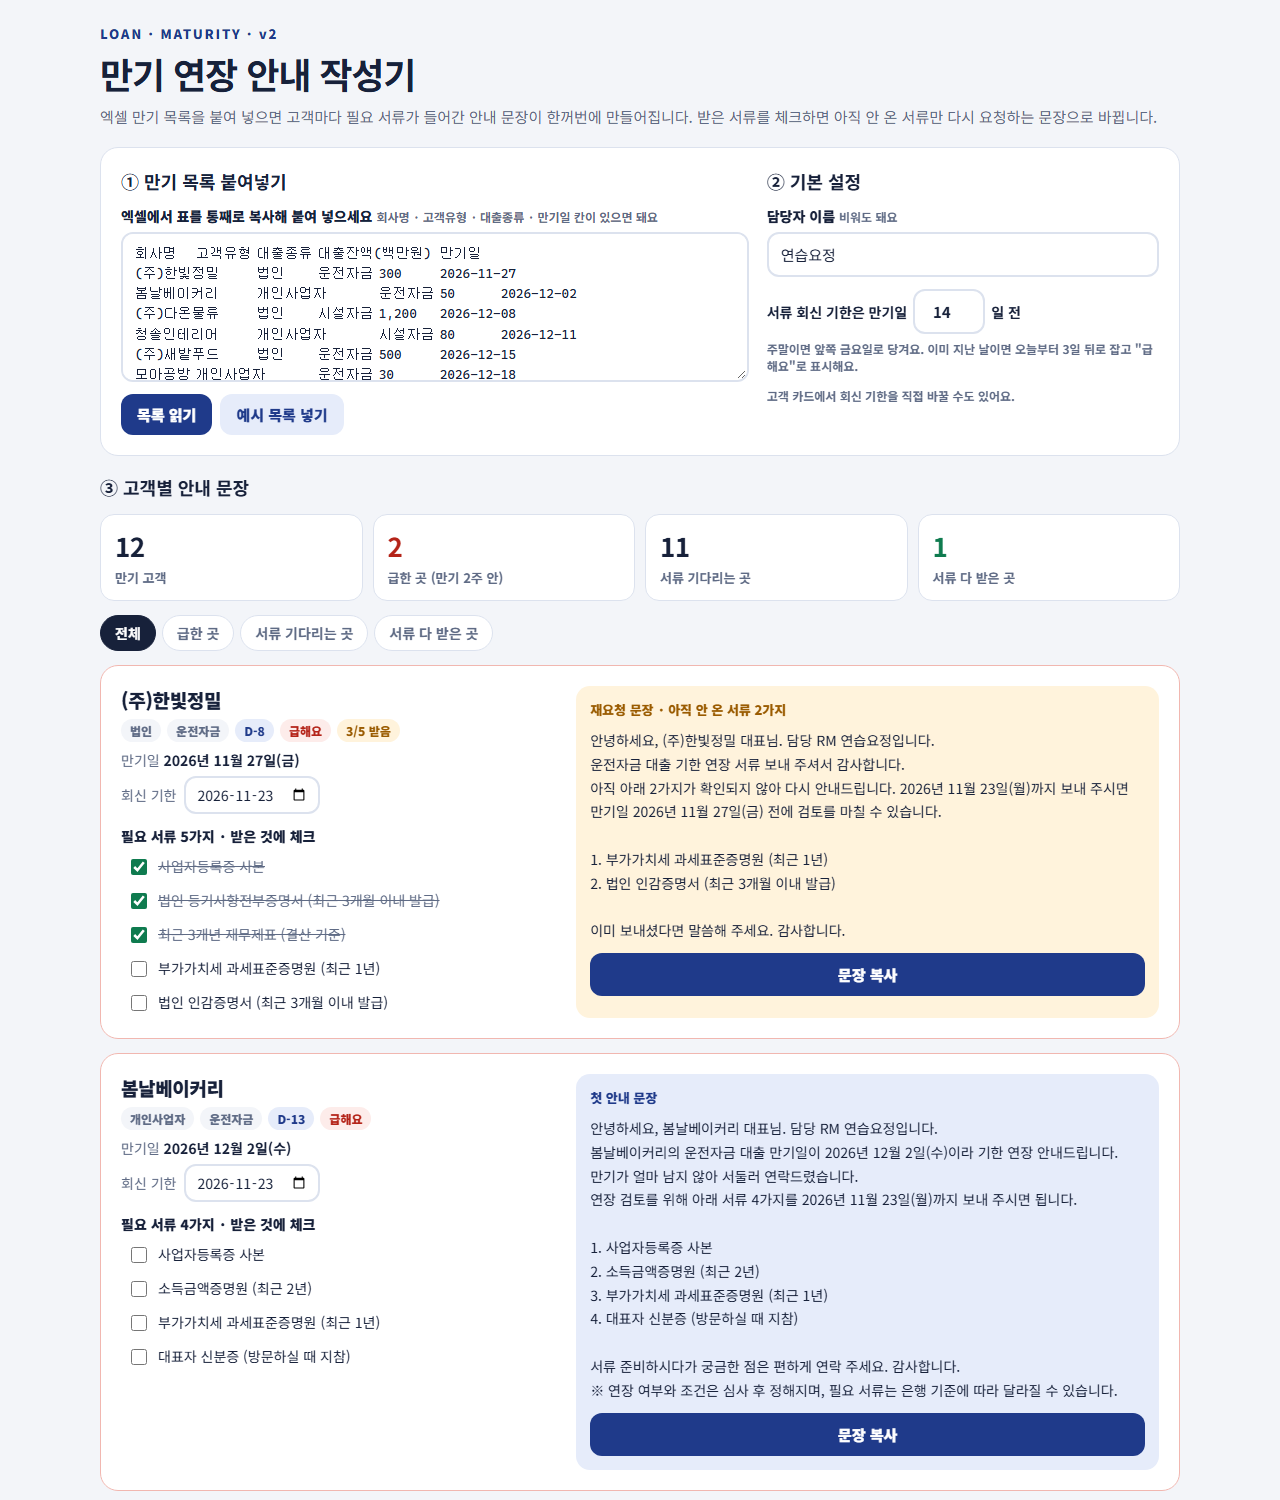
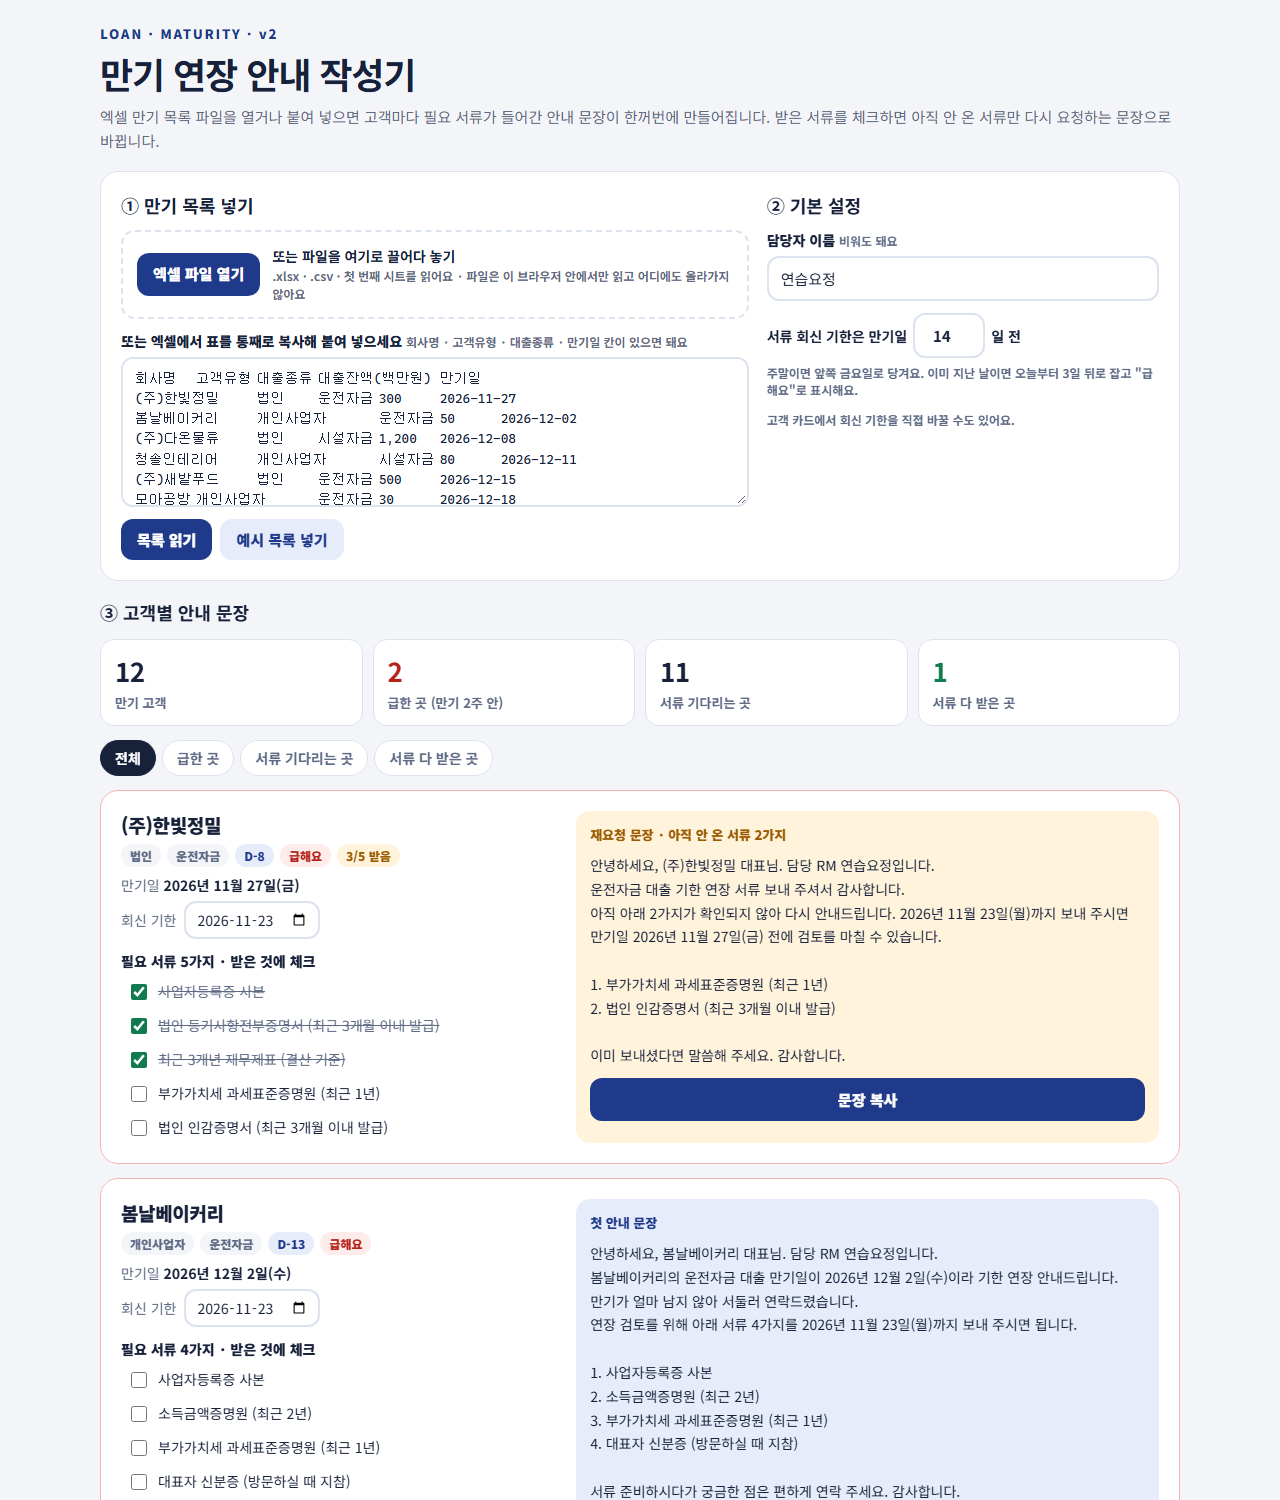
만기 연장 안내 작성기 v2: 엑셀(.xlsx) · CSV 파일 열기 추가
- 파일 열기 버튼과 끌어다 놓기, 첫 번째 시트를 읽어 붙여넣기 칸에 채움 (붙여넣기는 그대로)
- 외부 라이브러리 없이 브라우저 안에서만 읽음, 날짜 서식 숫자 → 날짜, 한글 CSV(EUC-KR) 처리
- .xls · 문서보안(DRM) 파일은 붙여넣기로 안내

diff --git a/[강사예시]/실습3_나만의도구/만기-연장-안내작성기-v2/index.html b/[강사예시]/실습3_나만의도구/만기-연장-안내작성기-v2/index.html
@@ -50,6 +50,12 @@
   .btn.small { padding: 7px 12px; font-size: 13px; }
   .rule { display: flex; align-items: center; gap: 6px; flex-wrap: wrap; font-size: 14px; font-weight: 700; }
   .rule input { width: 72px; text-align: center; }
+  .drop { display: flex; align-items: center; gap: 12px; flex-wrap: wrap; padding: 14px; margin-bottom: 12px; border: 2px dashed var(--line); border-radius: 14px; font-size: 14px; font-weight: 700; line-height: 1.5; }
+  .drop span { min-width: 0; flex: 1 1 220px; }
+  .drop .hint { display: block; }
+  .drop.over { border-color: var(--accent); background: var(--accent-soft); }
+  .file-msg { margin: -4px 0 12px; padding: 10px 12px; border-radius: 10px; font-size: 14px; font-weight: 700; line-height: 1.5; background: var(--ok-soft); color: var(--ok); }
+  .file-msg.bad { background: var(--warn-soft); color: var(--warn); }
   .skipped { margin: 10px 0 0; padding: 12px 14px; background: var(--warn-soft); border-radius: 12px; color: var(--warn); font-size: 14px; line-height: 1.6; }
   .skipped ul { margin: 4px 0 0; padding-left: 20px; }
   .summary { display: grid; grid-template-columns: repeat(4, minmax(0, 1fr)); gap: 10px; }
@@ -103,14 +109,20 @@
   <header>
     <p class="eyebrow">LOAN · MATURITY · v2</p>
     <h1>만기 연장 안내 작성기</h1>
-    <p class="sub">엑셀 만기 목록을 붙여 넣으면 고객마다 필요 서류가 들어간 안내 문장이 한꺼번에 만들어집니다. 받은 서류를 체크하면 아직 안 온 서류만 다시 요청하는 문장으로 바뀝니다.</p>
+    <p class="sub">엑셀 만기 목록 파일을 열거나 붙여 넣으면 고객마다 필요 서류가 들어간 안내 문장이 한꺼번에 만들어집니다. 받은 서류를 체크하면 아직 안 온 서류만 다시 요청하는 문장으로 바뀝니다.</p>
   </header>
 
   <section class="card setup" aria-labelledby="in-title">
     <div>
-      <h2 id="in-title">① 만기 목록 붙여넣기</h2>
+      <h2 id="in-title">① 만기 목록 넣기</h2>
+      <div class="drop" id="drop">
+        <input type="file" id="file" accept=".xlsx,.csv" hidden>
+        <button type="button" class="btn" id="pick">엑셀 파일 열기</button>
+        <span>또는 파일을 여기로 끌어다 놓기 <span class="hint">.xlsx · .csv · 첫 번째 시트를 읽어요 · 파일은 이 브라우저 안에서만 읽고 어디에도 올라가지 않아요</span></span>
+      </div>
+      <p id="file-msg" class="file-msg" role="status" hidden></p>
       <div class="field">
-        <label for="paste">엑셀에서 표를 통째로 복사해 붙여 넣으세요 <span class="hint">회사명 · 고객유형 · 대출종류 · 만기일 칸이 있으면 돼요</span></label>
+        <label for="paste">또는 엑셀에서 표를 통째로 복사해 붙여 넣으세요 <span class="hint">회사명 · 고객유형 · 대출종류 · 만기일 칸이 있으면 돼요</span></label>
         <textarea id="paste" spellcheck="false" placeholder="회사명	고객유형	대출종류	만기일&#10;(주)한빛정밀	법인	운전자금	2026-11-27"></textarea>
       </div>
       <div class="btns">
@@ -200,8 +212,8 @@
   // "2026-12-08" "2026.12.8" "2026/12/08" "2026. 12. 8." 엑셀 날짜 숫자(46364)까지
   function parseDate(text) {
     const s = String(text).trim();
-    if (/^\d{5}$/.test(s)) {
-      const n = Number(s);
+    if (/^\d{5}(\.\d+)?$/.test(s)) {
+      const n = Math.floor(Number(s));
       if (n > 40000 && n < 60000) { const base = new Date(1899, 11, 30); return addDays(base, n); }
     }
     const m = s.match(/^(\d{4})\s*[-./년]\s*(\d{1,2})\s*[-./월]\s*(\d{1,2})\s*[.일]?$/);
@@ -470,7 +482,167 @@
     return [head, ...rows].join("\n");
   }
 
-  $("read").addEventListener("click", readList);
+  // ---------- 엑셀 · CSV 파일 읽기 (외부 라이브러리 없이, 이 브라우저 안에서만) ----------
+  // .xlsx는 zip 압축 파일이다. zip 목차를 읽고, 브라우저에 들어 있는 압축 풀기(DecompressionStream)로 시트 XML을 꺼낸다.
+  async function unzip(buffer) {
+    const view = new DataView(buffer);
+    const bytes = new Uint8Array(buffer);
+    if (view.byteLength < 22 || view.getUint32(0, true) !== 0x04034b50) throw new Error("NOT_ZIP");
+    let end = -1;
+    for (let i = view.byteLength - 22; i >= Math.max(0, view.byteLength - 66000); i -= 1) {
+      if (view.getUint32(i, true) === 0x06054b50) { end = i; break; }
+    }
+    if (end < 0) throw new Error("NOT_ZIP");
+    const count = view.getUint16(end + 10, true);
+    let p = view.getUint32(end + 16, true);
+    const names = new TextDecoder();
+    const files = {};
+    for (let n = 0; n < count; n += 1) {
+      if (view.getUint32(p, true) !== 0x02014b50) throw new Error("NOT_ZIP");
+      const method = view.getUint16(p + 10, true);
+      const size = view.getUint32(p + 20, true);
+      const nameLen = view.getUint16(p + 28, true);
+      const extraLen = view.getUint16(p + 30, true);
+      const commentLen = view.getUint16(p + 32, true);
+      const local = view.getUint32(p + 42, true);
+      const name = names.decode(bytes.subarray(p + 46, p + 46 + nameLen));
+      files[name] = { method, size, local };
+      p += 46 + nameLen + extraLen + commentLen;
+    }
+    return async (name) => {
+      const f = files[name];
+      if (!f) return null;
+      const start = f.local + 30 + view.getUint16(f.local + 26, true) + view.getUint16(f.local + 28, true);
+      const data = bytes.subarray(start, start + f.size);
+      if (f.method === 0) return new TextDecoder().decode(data);
+      if (f.method !== 8) throw new Error("UNSUPPORTED");
+      if (typeof DecompressionStream === "undefined") throw new Error("NO_DECOMPRESS");
+      const stream = new Blob([data]).stream().pipeThrough(new DecompressionStream("deflate-raw"));
+      return new Response(stream).text();
+    };
+  }
+
+  const xml = (text) => new DOMParser().parseFromString(text, "application/xml");
+  const colIndex = (ref) => [...ref.replace(/\d+/g, "")].reduce((n, ch) => n * 26 + ch.charCodeAt(0) - 64, 0) - 1;
+
+  async function readXlsx(buffer) {
+    const get = await unzip(buffer);
+    // 첫 번째 시트 파일 찾기 (workbook.xml의 첫 sheet → rels의 Target)
+    let sheetPath = "xl/worksheets/sheet1.xml";
+    const wb = await get("xl/workbook.xml");
+    const rels = await get("xl/_rels/workbook.xml.rels");
+    if (wb && rels) {
+      const first = xml(wb).getElementsByTagName("sheet")[0];
+      const rid = first && (first.getAttribute("r:id") || first.getAttributeNS("http://schemas.openxmlformats.org/officeDocument/2006/relationships", "id"));
+      const rel = [...xml(rels).getElementsByTagName("Relationship")].find((r) => r.getAttribute("Id") === rid);
+      if (rel) {
+        const target = rel.getAttribute("Target");
+        sheetPath = target.startsWith("/") ? target.slice(1) : `xl/${target.replace(/^\.\//, "")}`;
+      }
+    }
+    const sheet = await get(sheetPath);
+    if (!sheet) throw new Error("NO_SHEET");
+    const sharedText = await get("xl/sharedStrings.xml");
+    const shared = sharedText
+      ? [...xml(sharedText).getElementsByTagName("si")].map((si) => [...si.getElementsByTagName("t")].map((t) => t.textContent).join(""))
+      : [];
+    // 날짜 서식이 걸린 칸 찾기: 엑셀은 날짜를 46353 같은 숫자로 저장하고 서식으로만 날짜처럼 보여 준다
+    const dateStyles = new Set();
+    const stylesText = await get("xl/styles.xml");
+    if (stylesText) {
+      const st = xml(stylesText);
+      const custom = {};
+      for (const f of st.getElementsByTagName("numFmt")) custom[f.getAttribute("numFmtId")] = f.getAttribute("formatCode") || "";
+      const isDateFmt = (id) => (id >= 14 && id <= 22) || (id >= 45 && id <= 47)
+        || (custom[id] !== undefined && /[yd]/i.test(custom[id].replace(/"[^"]*"|\[[^\]]*\]/g, "")));
+      const xfs = st.getElementsByTagName("cellXfs")[0];
+      if (xfs) [...xfs.getElementsByTagName("xf")].forEach((xf, i) => { if (isDateFmt(Number(xf.getAttribute("numFmtId")))) dateStyles.add(String(i)); });
+    }
+    const rows = [];
+    for (const row of xml(sheet).getElementsByTagName("row")) {
+      const cells = [];
+      for (const c of row.getElementsByTagName("c")) {
+        const type = c.getAttribute("t");
+        const v = c.getElementsByTagName("v")[0]?.textContent ?? "";
+        let value = v;
+        if (type === "s") value = shared[Number(v)] ?? "";
+        else if (type === "inlineStr") value = [...c.getElementsByTagName("t")].map((t) => t.textContent).join("");
+        else if (type === "d") value = v.slice(0, 10);
+        else if ((!type || type === "n") && /^\d+(\.\d+)?$/.test(v) && dateStyles.has(c.getAttribute("s") || "0")) value = iso(addDays(new Date(1899, 11, 30), Math.floor(Number(v))));
+        const ref = c.getAttribute("r");
+        cells[ref ? colIndex(ref) : cells.length] = String(value).replace(/[\t\r\n]+/g, " ").trim();
+      }
+      if (cells.some((x) => x)) rows.push(Array.from(cells, (x) => x ?? "").join("\t"));
+    }
+    return rows.join("\n");
+  }
+
+  // CSV: 엑셀이 저장한 한글 CSV는 보통 EUC-KR(CP949)이라, UTF-8로 깨지면 EUC-KR로 다시 읽는다
+  function readCsv(buffer) {
+    let text = new TextDecoder("utf-8").decode(buffer);
+    if (text.includes("�")) text = new TextDecoder("euc-kr").decode(buffer);
+    text = text.replace(/^/, "");
+    const out = [];
+    let row = [""];
+    let quoted = false;
+    for (let i = 0; i < text.length; i += 1) {
+      const ch = text[i];
+      if (quoted) {
+        if (ch === '"' && text[i + 1] === '"') { row[row.length - 1] += '"'; i += 1; }
+        else if (ch === '"') quoted = false;
+        else row[row.length - 1] += ch;
+      } else if (ch === '"') quoted = true;
+      else if (ch === ",") row.push("");
+      else if (ch === "\n" || ch === "\r") {
+        if (ch === "\r" && text[i + 1] === "\n") i += 1;
+        out.push(row); row = [""];
+      } else row[row.length - 1] += ch;
+    }
+    out.push(row);
+    return out.filter((r) => r.some((x) => x.trim())).map((r) => r.map((x) => x.replace(/\t/g, " ").trim()).join("\t")).join("\n");
+  }
+
+  function fileMessage(text, bad) {
+    const box = $("file-msg");
+    box.hidden = false;
+    box.textContent = text;
+    box.classList.toggle("bad", Boolean(bad));
+  }
+
+  async function handleFile(file) {
+    if (!file) return;
+    const name = file.name || "";
+    const ext = (name.split(".").pop() || "").toLowerCase();
+    if (ext === "xls") return fileMessage("예전 엑셀 형식(.xls)은 읽지 못해요. 엑셀에서 「다른 이름으로 저장」→ .xlsx로 저장하거나, 표를 복사해 아래 칸에 붙여 넣어 주세요.", true);
+    if (ext !== "xlsx" && ext !== "csv") return fileMessage(".xlsx나 .csv 파일만 읽어요. 표를 복사해 아래 칸에 붙여 넣어도 돼요.", true);
+    if (file.size > 5 * 1024 * 1024) return fileMessage("파일이 5MB보다 커요. 만기 목록만 남기거나 표를 복사해 붙여 넣어 주세요.", true);
+    try {
+      const buffer = await file.arrayBuffer();
+      const text = ext === "csv" ? readCsv(buffer) : await readXlsx(buffer);
+      if (!text.trim()) return fileMessage("파일에 읽을 내용이 없어요. 첫 번째 시트에 만기 목록이 있는지 확인해 주세요.", true);
+      $("paste").value = text;
+      readList();
+      fileMessage(`「${name}」 파일을 읽어서 아래 칸에 채웠어요. 고객 ${customers.length}곳의 문장을 만들었어요.`);
+    } catch (err) {
+      const why = {
+        NOT_ZIP: "엑셀 파일로 열리지 않아요. 회사 문서보안(DRM)이 걸린 파일이면 브라우저가 읽을 수 없어요. 엑셀에서 열어 표를 복사해 아래 칸에 붙여 넣어 주세요.",
+        NO_DECOMPRESS: "이 브라우저는 엑셀 파일 읽기를 지원하지 않아요. 크롬이나 엣지 최신판으로 열거나, 표를 복사해 붙여 넣어 주세요.",
+      }[err.message] || "파일을 읽지 못했어요. 엑셀에서 표를 복사해 아래 칸에 붙여 넣어 주세요.";
+      fileMessage(why, true);
+    }
+  }
+
+  $("pick").addEventListener("click", () => $("file").click());
+  $("file").addEventListener("change", () => { handleFile($("file").files[0]); $("file").value = ""; });
+  const drop = $("drop");
+  for (const type of ["dragenter", "dragover"]) drop.addEventListener(type, (e) => { e.preventDefault(); drop.classList.add("over"); });
+  for (const type of ["dragleave", "drop"]) drop.addEventListener(type, (e) => { e.preventDefault(); drop.classList.remove("over"); });
+  drop.addEventListener("drop", (e) => handleFile(e.dataTransfer.files[0]));
+  // 카드 밖에 떨어뜨려도 브라우저가 파일을 열어 버리지 않게
+  window.addEventListener("dragover", (e) => e.preventDefault());
+  window.addEventListener("drop", (e) => { if (!drop.contains(e.target)) { e.preventDefault(); handleFile(e.dataTransfer.files[0]); } });
+
+  $("read").addEventListener("click", () => { $("file-msg").hidden = true; readList(); });
   $("sample").addEventListener("click", () => { $("paste").value = sampleText(); readList(); });
   $("rm").addEventListener("input", () => {
     const v = $("rm").value;

diff --git a/[강사예시]/실습3_나만의도구/만기-연장-안내작성기-v2/prd.md b/[강사예시]/실습3_나만의도구/만기-연장-안내작성기-v2/prd.md
@@ -15,7 +15,8 @@ v1(`../만기-연장-안내작성기`)을 1차 완성한 뒤, "있으면 좋은 
 - 만기가 2주도 안 남은 고객을 목록에서 눈으로 골라내야 한다
 
 ## 입력
-- 엑셀에서 복사한 만기 목록 (회사명 · 고객유형 · 대출종류 · 만기일 칸. 다른 칸은 있어도 무시)
+- 만기 목록 엑셀 파일(.xlsx · .csv) 열기 또는 끌어다 놓기 → 첫 번째 시트를 읽어 붙여넣기 칸에 채운다
+- 또는 엑셀에서 복사한 만기 목록 붙여넣기 (회사명 · 고객유형 · 대출종류 · 만기일 칸. 다른 칸은 있어도 무시)
 - 담당자 이름 (닉네임, 비워도 됨)
 - 회신 기한 규칙: 만기일 N일 전 (처음 14일)
 - 고객별로 받은 서류 체크, 필요하면 회신 기한 직접 바꾸기
@@ -29,7 +30,7 @@ v1(`../만기-연장-안내작성기`)을 1차 완성한 뒤, "있으면 좋은 
   - 다 받음 → 접수 완료 문장
 
 ## 꼭 필요한 기능 (3개)
-1. 만기 목록 붙여넣기 → 고객별 안내 문장 한꺼번에 만들기
+1. 만기 목록 파일 열기 · 붙여넣기 → 고객별 안내 문장 한꺼번에 만들기
 2. 받은 서류 체크 → 재요청 문장 · 접수 완료 문장으로 바뀌기
 3. 고객별 문장 복사 버튼
 
@@ -49,6 +50,13 @@ v1(`../만기-연장-안내작성기`)을 1차 완성한 뒤, "있으면 좋은 
 - 건너뛴 줄은 몇 번째 줄인지와 이유를 빨간 칸에 보여 주고, 나머지 고객은 정상으로 만든다
 - 만기일 N일 전이 이미 지났으면 오늘부터 3일 뒤(주말이면 월요일)로 잡고 "급해요" 표시. 그것도 만기일을 넘으면 "전화로 먼저 연락하세요" 안내
 - 한 번에 100줄까지
+- 파일 읽기
+  - 외부 라이브러리 없이 브라우저 안에서만 읽는다 (은행 내부망 · 인터넷 차단 환경에서도 동작). 파일은 어디에도 올리지 않는다
+  - 엑셀이 숫자로 저장한 날짜(46353)는 날짜 서식을 보고 2026-11-27로 바꿔 채운다
+  - 한글 CSV는 UTF-8로 읽다가 글자가 깨지면 EUC-KR로 다시 읽는다. 따옴표 안의 쉼표("1,200")도 한 칸으로 읽는다
+  - 예전 형식(.xls)은 읽지 않고 .xlsx로 저장하거나 붙여 넣으라고 안내한다
+  - 엑셀 파일로 열리지 않으면(문서보안 DRM이 걸린 파일 등) 표를 복사해 붙여 넣으라고 안내한다. 이전 목록은 그대로 둔다
+  - 5MB가 넘는 파일은 읽지 않는다
 
 ## 조건
 - HTML 파일 하나(index.html), 로그인 · 서버 없음, 더블클릭으로 열린다
